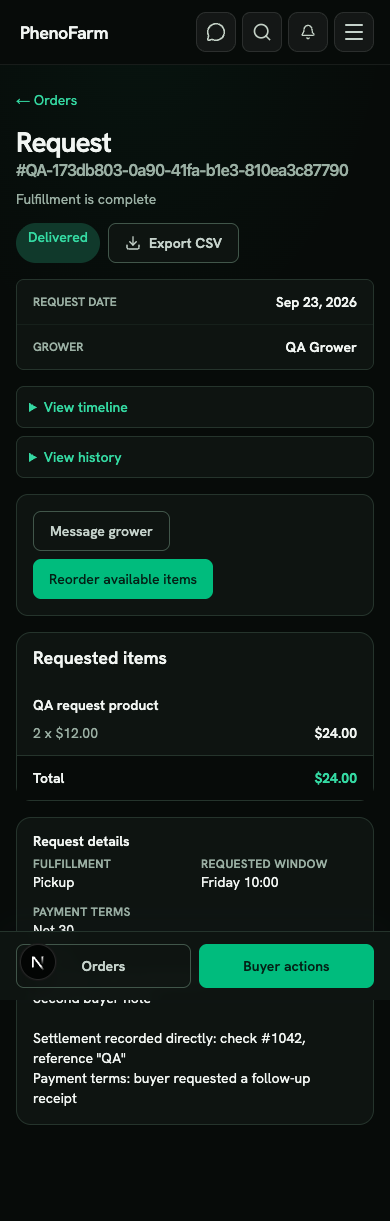
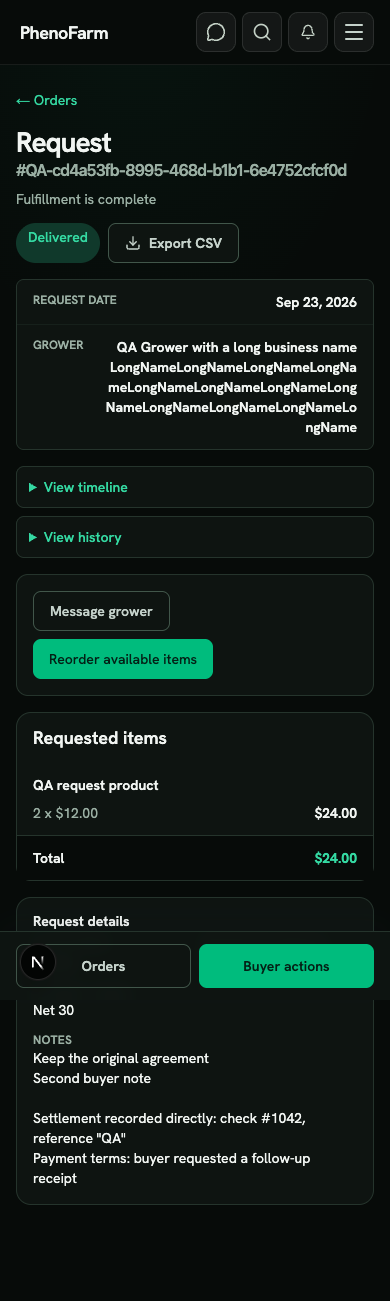
Keep long business names and request dates visible on mobile

diff --git a/tests/launch-workflow-fixes.spec.ts b/tests/launch-workflow-fixes.spec.ts
@@ -192,6 +192,8 @@ async function recordedOrder(grower: Awaited<ReturnType<typeof account>>, buyer:
 
 for (const width of [1440, 390]) test(`saved settlement notes remain visible for both businesses at ${width}px`, async ({ page, browser }) => {
   const grower = await account(), buyer = await account('DISPENSARY'), order = await recordedOrder(grower, buyer);
+  const longGrowerName = 'QA Grower with a long business name ' + 'LongName'.repeat(12);
+  await db.grower.update({ where: { id: grower.grower!.id }, data: { businessName: longGrowerName } });
   const appended = '\nSecond buyer note\n\nSettlement recorded directly: check #1042, reference "QA"\nPayment terms: buyer requested a follow-up receipt';
   await page.setViewportSize({ width, height: 1000 }); await login(page, grower);
   await page.goto(`/grower/orders/${order.id}/edit`);
@@ -210,6 +212,13 @@ for (const width of [1440, 390]) test(`saved settlement notes remain visible for
     await expect(buyerPage.getByText('Keep the original agreement', { exact: false })).toContainText('Second buyer note');
     await expect(buyerPage.getByText('Keep the original agreement', { exact: false })).toContainText('check #1042');
     await expect(buyerPage.getByText('Net 30', { exact: true })).toBeVisible();
+    const growerLabel = buyerPage.getByText(longGrowerName, { exact: true }).first();
+    await expect(growerLabel).toBeVisible();
+    const bounds = await growerLabel.boundingBox();
+    expect(bounds!.x).toBeGreaterThanOrEqual(0); expect(bounds!.x + bounds!.width).toBeLessThanOrEqual(width);
+    expect(await growerLabel.evaluate(el => el.scrollWidth <= el.clientWidth)).toBe(true);
+    const dateRow = buyerPage.getByText('Request date', { exact: true }).locator('..');
+    expect(await dateRow.evaluate(el => el.scrollWidth <= el.clientWidth)).toBe(true);
     await capture(buyerPage, `buyer-notes-${width}`);
   } finally { await context.close(); }
   const persisted = await db.order.findUniqueOrThrow({ where: { id: order.id } });

diff --git a/app/dispensary/orders/[id]/page.tsx b/app/dispensary/orders/[id]/page.tsx
@@ -174,14 +174,14 @@ export default async function DispensaryOrderDetailPage({ params }: { params: Pr
         className="mb-4 sm:mb-6"
       />
 
-      <div className="mb-4 grid gap-px overflow-hidden rounded-lg border border-pf-line bg-pf-raised shadow-sm sm:grid-cols-2">
+      <div className="mb-4 grid grid-cols-1 gap-px overflow-hidden rounded-lg border border-pf-line bg-pf-raised shadow-sm sm:grid-cols-2">
         {[
           { label: 'Request date', value: format(order.createdAt, 'MMM dd, yyyy') },
           { label: 'Grower', value: order.grower?.businessName || 'Grower' },
         ].map((item) => (
-          <div key={item.label} className="flex items-center justify-between gap-4 bg-pf-surface px-4 py-3 sm:block sm:py-4">
-            <p className="text-xs font-semibold uppercase text-pf-muted">{item.label}</p>
-            <p className={`min-w-0 truncate text-sm font-semibold text-pf-text sm:mt-1 sm:text-base`}>{item.value}</p>
+          <div key={item.label} className="flex min-w-0 items-start justify-between gap-4 bg-pf-surface px-4 py-3 sm:block sm:py-4">
+            <p className="shrink-0 text-xs font-semibold uppercase text-pf-muted">{item.label}</p>
+            <p className="min-w-0 flex-1 break-words text-right text-sm font-semibold text-pf-text sm:mt-1 sm:text-left sm:text-base">{item.value}</p>
           </div>
         ))}
       </div>

diff --git a/docs/reviews/launch-fixes-2026-09-23/README.md b/docs/reviews/launch-fixes-2026-09-23/README.md
@@ -23,6 +23,10 @@ Screenshots in this folder cover saved profiles, request recovery, complete note
 - All 22 previously applied migrations matched checked-in checksums. The only pending migration was `20260923020000_order_request_submissions`.
 - That additive migration was tested locally and applied successfully to production. It creates one receipt table and its buyer ownership constraint; existing data is unchanged. Previous application code can run with the extra table if rollback is necessary. Preserve receipt data when rolling back.
 - Production mail settings are configured for the next release. `AUTH_REQUIRE_EMAIL_VERIFICATION=true` deliberately requires existing unverified users to confirm their email before signing in; no account is marked verified without proof. Verification and password reset remain available to those users.
-- Production deployment and post-deployment verification: pending at this checkpoint.
+- Initial production release: `dpl_6jEXQVdWfwGYkQyZf7FNLJEGvUN2`, Ready and aliased to the production URL. Live signup, verification, reset, profile saves, approval replay, quote creation/acceptance, response-loss recovery, concurrent receipt replay, fulfillment, settlement notes, and both CSV exports passed.
+- Live boundary checks passed: a second buyer cannot access the original order or its receipt; two concurrent requests against three available units yielded one success and one conflict; repeated cancellation restored stock once; stale approval could not undo an intentional revocation.
+- Real-user verification and reset emails were accepted by the live app. The user's initial sender test was confirmed in the Yahoo inbox. The user's own password is never changed by this audit. Synthetic signup/reset messages use Resend's documented labeled test recipients, with links retrieved privately from the sending provider; these checks are distinct from real inbox placement.
+- A live mobile visual check found an existing grid sizing issue with long grower names that could clip the request date. Explicit responsive grid columns and wrapping fix it. The added 390/1440px regression checks passed and the full verification command passed again after that change.
+- Final release and fixture cleanup: pending at this checkpoint.
 
 No secrets, passwords, reset links, or session cookies are included in the evidence. All synthetic production accounts must be removed after final checks; the real user's account/password must remain unchanged except for an ownership verification they choose to perform.
